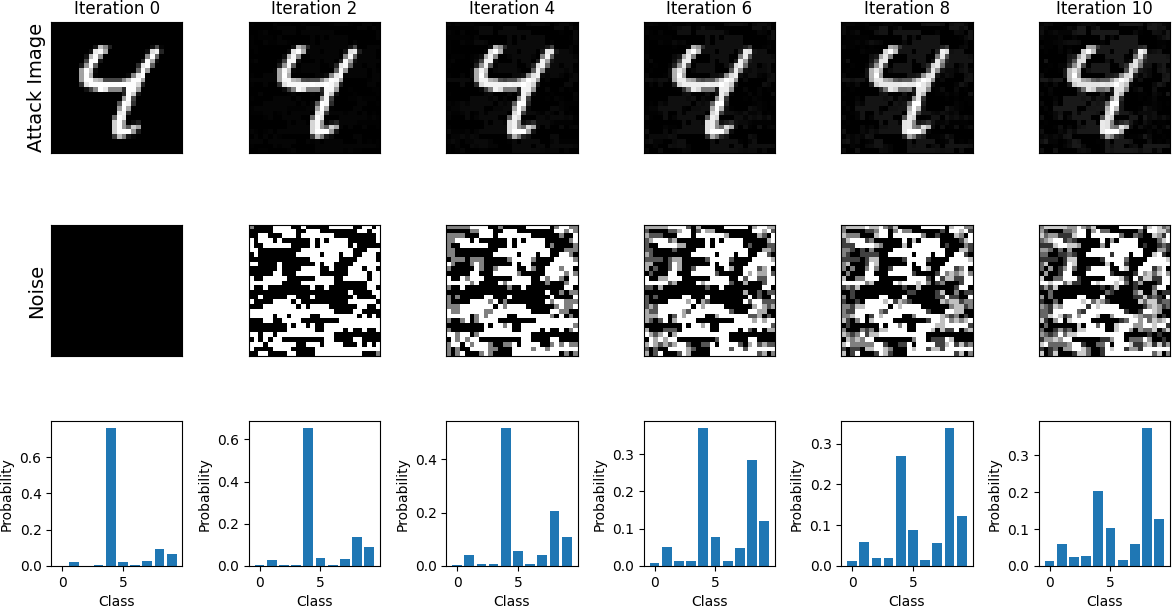
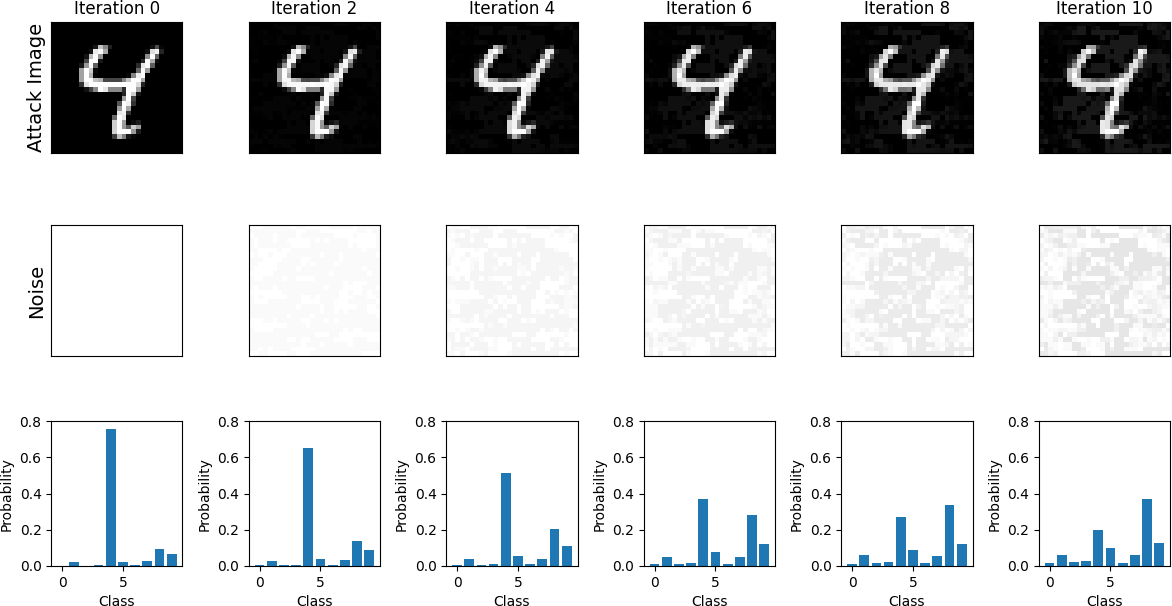
Fix: plotting of noise and scale of y-axis in bar chart

diff --git a/stepwise_attack_plot.py b/stepwise_attack_plot.py
@@ -58,16 +58,17 @@ for j in indices:#range(len(examples[0])):
         plt.imshow(per, cmap="gray")
         if step == 0:
             plt.ylabel("Attack Image", fontsize=14)
-        # Plot noise
+        # Plot noise. The grayer the pixel the stronger the change.
         plt.subplot(4, 6, cnt + 6)
         plt.xticks([], [])
         plt.yticks([], [])
-        plt.imshow(noise, cmap="gray")
+        plt.imshow(1 - np.abs(noise), cmap="gray", vmin=0.5, vmax=1)
         if step == 0:
             plt.ylabel("Noise", fontsize=14)
         # Plot claas_dist
         plt.subplot(4, 6, cnt + 12)
         plt.bar(np.arange(len(dis)), softmax(dis))
+        plt.yticks(np.arange(0, 1, step=0.2))
         plt.xlabel("Class")
         plt.ylabel("Probability")
 
